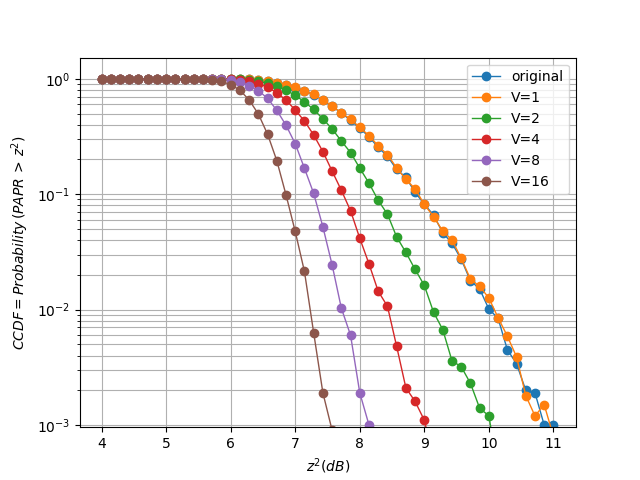
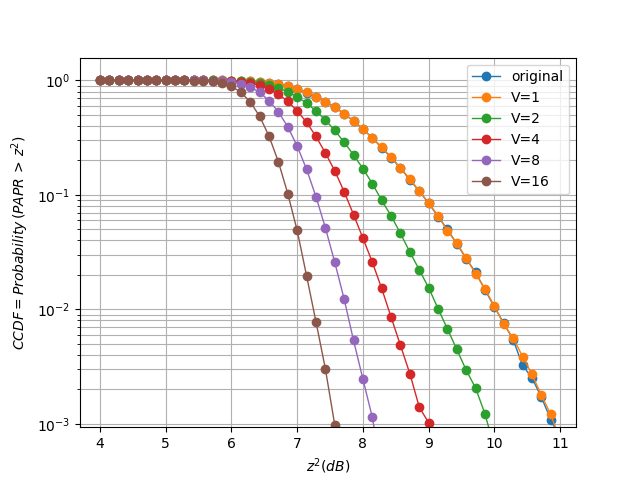
更新模擬結果

Changed region(s): [[0.0625, 0.125, 0.9062, 0.9375], [0.0625, 0.375, 0.0938, 0.4375]]

diff --git a/OFDM/PAPR reduction/compare CCDF PTS.py b/OFDM/PAPR reduction/compare CCDF PTS.py
@@ -7,7 +7,7 @@ import matplotlib.pyplot as plt
 
 Nfft = 256                          # 有Nfft個子載波
 X = [0]*Nfft                        # 傳送Nfft個symbol
-N = 10000                           # 做N次來找CCDF
+N = 100000                          # 做N次來找CCDF
 V = [1, 2, 4, 8 ,16]                # 將symbol vector分成V[i] 個subblock
 z_square_dB = [0]*50                # z^2的dB值
 z_square = [0]*len(z_square_dB)     # z^2

diff --git a/OFDM/PAPR reduction/pdf of clipped and filtered OFDM signal.py b/OFDM/PAPR reduction/pdf of clipped and filtered OFDM signal.py
@@ -117,6 +117,8 @@ for i in range(len(pass_clip_x)):
 
 # 最後對clipped passband signal做filtering
 pass_clip_filter_x = signal.lfilter(bpass, [1], pass_clip_x)
+#pass_clip_filter_x = np.fft.ifft(np.fft.fft(bpass, len(pass_clip_x)) * np.fft.fft(pass_clip_x))  別這樣用
+
 # 關於該函數的用法可參考官網 https://docs.scipy.org/doc/scipy-0.18.1/reference/generated/scipy.signal.lfilter.html
 
 
